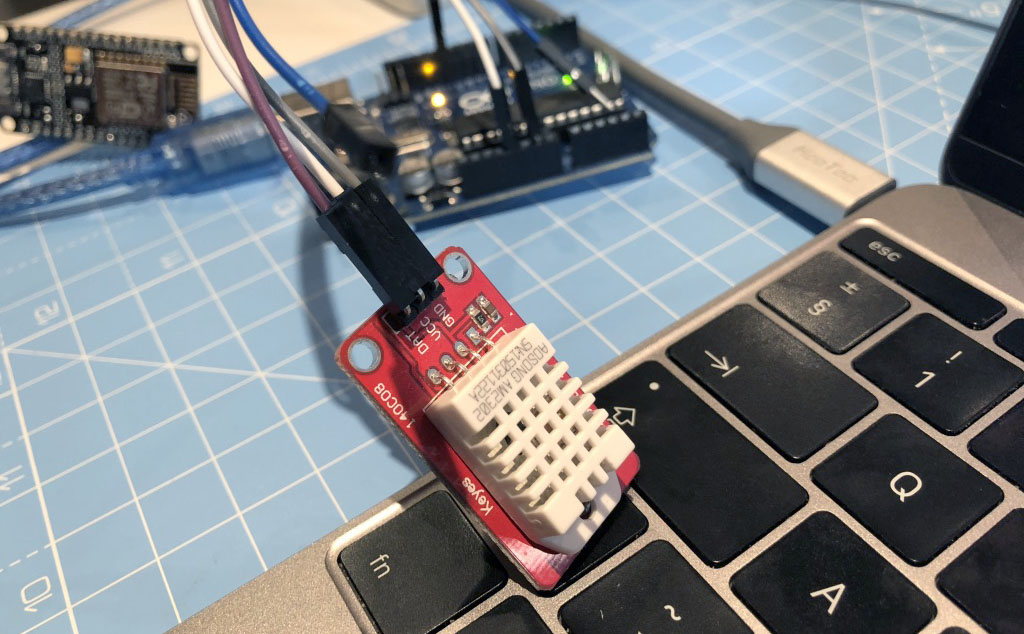
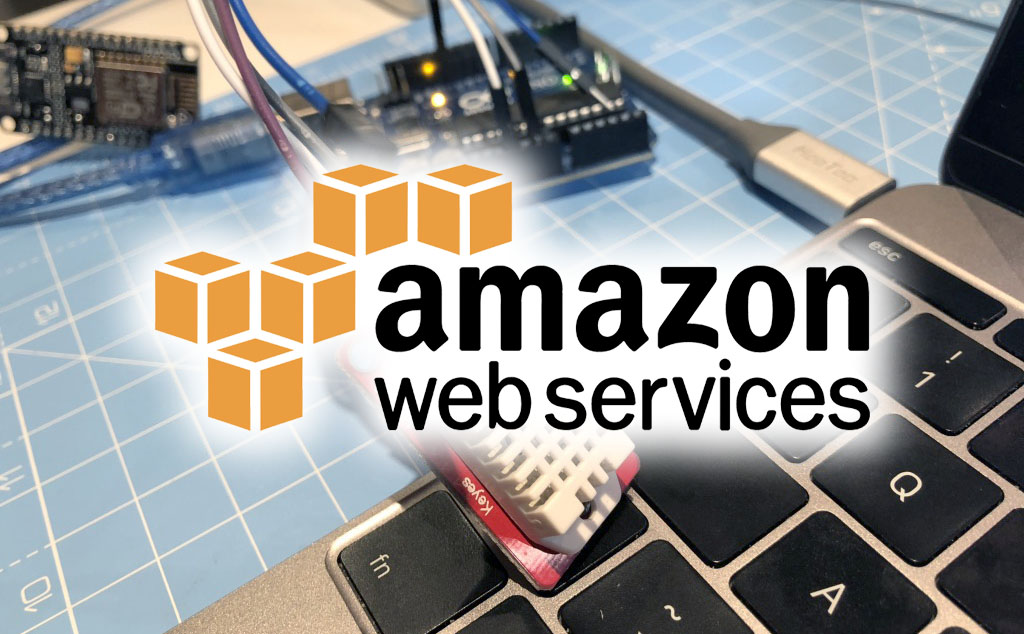
Updating content

diff --git a/content/posts/17-04-2018/index.md b/content/posts/17-04-2018/index.md
@@ -1,6 +1,6 @@
 ---
 title: "Arduino Data Logger 2, save to AWS DynamoDB with Node.js and JavaScript"
-cover: "http://www.webondevices.com/posts/2018/temperature-logging.jpg"
+cover: "http://localhost:8000/posts/2018/dht22-data-logging.jpg"
 category: "moar"
 date: "17/04/2018"
 slug: "arduino-data-logger-dynamosb-aws-nodejs-javascript"
@@ -11,7 +11,7 @@ tags:
 
 This is the second post in a series on logging sensor data from an Arduino with the help of Node.js and JavaScript.
 
-In [part one of the series](/arduino-data-logger-into-file-nodejs-javascript), we have uploaded a piece of code onto the Arduino responsible for performing the sensor measurements and passing that data through as JSON via the USB port. We then read the incoming serial messages in Node.js with JavaScript and logged the data in a CSV file.
+In [part one of the series](/arduino-data-logger-into-file-nodejs-javascript), we have uploaded a piece of code onto the Arduino responsible for performing the sensor measurements and passing that data through as JSON via the USB port. We then read the incoming serial messages in Node.js with JavaScript and logged the data into a CSV file.
 
 If you wish to pick up the project from where we left it off last time, download the source from Github:
 [https://github.com/webondevices/example-projects/tree/master/temp-log-csv](https://github.com/webondevices/example-projects/tree/master/temp-log-csv)
@@ -20,7 +20,7 @@ In this second part, we will connect to **Amazon Web Services** and save our dat
 
 ### Getting started with AWS
 
-**Amazon Web Services** is a collection of cloud services that lets you create and manage databases (**DynamoDB**), run cloud functions (**Lamdba**), build APIs (**API Gateway**), control IoT devices (**AWS IoT Core**), store files (**S**3), write Amazon Alexa skills (**Alexa Skills Kit**), access Machine Learning driven services like natural language processing, image and voice recognition or speech synthesis, and dozens of other useful services. Most importantly all of these have a JavaScript SDK so it's very easy to get started, even as a front-end developer.
+**Amazon Web Services** is a collection of cloud services that lets you create and manage databases (**DynamoDB**), run cloud functions (**Lamdba**), build APIs (**API Gateway**), control IoT devices (**AWS IoT Core**), store files (**S3**), write Amazon Alexa skills (**Alexa Skills Kit**), access Machine Learning driven services like natural language processing, image and voice recognition or speech synthesis, and dozens of other useful services. Most importantly all of these have a JavaScript SDK so it's very easy to get started, even as a front-end developer.
 
 Please note, that using AWS can have some cost implications but most of the services start from a free tier that you will probably only exceed if you are working at a commercial scale so getting started and playing around is usually free.
 
@@ -28,9 +28,7 @@ To get started, first register an account:
 
 [https://portal.aws.amazon.com/billing/signup](https://portal.aws.amazon.com/billing/signup)
 
-After logging in to your new account you will be redirected to the console homepage:
-
-<console home page>
+After logging in to your new account you will be redirected to the console homepage.
 
 To work with AWS from Node.js, the AWS command line tool is recommended to be installed, especially to make the setup process easy.
 
@@ -45,19 +43,23 @@ If you wish install this on **Linux** or have any other issues, just refer to th
 
 To confirm that the installation was successful, run `aws --version` from the command line which should return the version number of the newly installed cli.
 
-Next step is creating a user in AWS that will receive some API keys. These keys will let us connect to the cloud services from our computer. In your console select IAM from the Services drop down menu or search for it:
+Next step is creating a user in AWS that will receive some API keys. These keys will let us connect to the cloud services from our computer via that dev user. In your console select IAM from the Services drop down menu or search for it:
 
-<console>
+![console home page](http://localhost:8000/posts/2018/aws-find-service.jpg)
 
 **IAM** (AWS Identity and Access Management) is a service that helps you securely control access to AWS resources. You use IAM to control who is authenticated (signed in) and authorised (has permissions) to use resources.
 
-We will create a new user with this tool and give it programmatic access which will generate an access key ID and a secret access key for the AWS API, CLI, SDK, and other development tools. Click create new user:
+We will create a new user with this tool and give it programmatic access which will generate an access key ID and a secret access key for the AWS API, CLI, SDK, and other development tools. Click Add user:
 
-<new user>
+![aws create new user](http://localhost:8000/posts/2018/aws-iam-home.jpg)
 
 Fill out the name and select programmatic access. Next, you are asked to setup the permissions for the new user. On this page select "Attach existing policies directly" and choose "AdministratorAccess".
 
-After creating the user you will have access to the **Access key ID** and the **Secret access key**. Make a note of them.
+Granting administrator rights to an IAM user is not best practice so in production apps you will want to narrow these down but it will do the job for now.
+
+After creating the user you will have access to the **Access key ID** and the **Secret access key**. Make a note of these.
+
+![aws create new user](http://localhost:8000/posts/2018/aws-iam-new-user.jpg)
 
 Let's now open up the command line and connect our newly created admin user to the AWS SDK. Run `aws configure` and copy your keys when prompted.
 
@@ -70,7 +72,7 @@ Default output format [None]: <json or text or tabel>
 
 The default region should be the region you selected in the top right corner of your AWS console:
 
-<image>
+![aws create new user](http://localhost:8000/posts/2018/aws-console-region.jpg)
 
 The region codes can be found on this page:
 [https://docs.aws.amazon.com/AWSEC2/latest/UserGuide/using-regions-availability-zones.html](https://docs.aws.amazon.com/AWSEC2/latest/UserGuide/using-regions-availability-zones.html)
@@ -85,11 +87,13 @@ Let's now create a new table in our database for our data to be logged into. In 
 
 At this point, make sure you have the **correct region selected** for your service as your table will be created in and assigned to that very region and it will not be accessible if another region is selected. Next, you can click on the Create Table button.
 
-<illustration>
+![aws create new user](http://localhost:8000/posts/2018/aws-dynamodb-home.jpg)
 
 Name your table and add a partion key as a primary key. The primary key uniquely identifies each item in the table, so that no two items can have the same key. In our case we wouldn't want to use the temperature or humidity values as two entries in our table can have the same value. Instead, we could use the datetime millisecond value which will always be unique.
 
 In other cases when you find it difficult to choose a unique primary key from your data, you can just simply use a uniquely generated ID.
+
+![aws create new user](http://localhost:8000/posts/2018/aws-create-dynamodb-table.jpg)
 
 Click on create and you are now **ready to submit your readings to the database**!
 
@@ -110,7 +114,7 @@ const doc = require('dynamodb-doc');
 const dynamo = new doc.DynamoDB();
 ```
 
-Note the region setting at the initialisation. If this setting is omitted, the default region setting will be used, the one you specified after the `aws configure `command. Remember that this will need to match the region you created your DynamoDB table in. Use this page to look up region codes: [https://docs.aws.amazon.com/AWSEC2/latest/UserGuide/using-regions-availability-zones.html](https://docs.aws.amazon.com/AWSEC2/latest/UserGuide/using-regions-availability-zones.html).
+Note the region setting at the initialisation. If this setting is omitted, the default region setting will be used, the one you specified after the `aws configure` command. Remember that this will need to match the region you created your DynamoDB table in. Use this page to look up region codes: [https://docs.aws.amazon.com/AWSEC2/latest/UserGuide/using-regions-availability-zones.html](https://docs.aws.amazon.com/AWSEC2/latest/UserGuide/using-regions-availability-zones.html).
 
 We are now ready to use the `dynamo.putItem()` method to submit new data to the table:
 
@@ -203,13 +207,15 @@ Well done on finishing this project! You are now fully set up to work with AWS f
 
 There are two ways to validate or retreive the data saved to DynamoDB. The easiest is navigating to the DynamoDB service from the web console, then selecting "Tables", clicking on the name of your table and selecting the the Items tab.
 
-<data>
+![aws create new user](http://localhost:8000/posts/2018/aws-dynamodb-table.jpg)
 
 All our data is listed here as expected and you can export or filter it depending on your needs.
 
 ### Validating the data by querying DynamoDB
 
-The simplest example to get the data from JavaScript would be to just download all entries. For that we can say we want to scan for entries with a datetime value lower than the current time. This essentially means entries in the past. Please note that scanning and querying are different concepts in DyanmoDB. When you query, you have to include your primary key. In our case this would mean query by the datetime value. Scanning gives you a lot more freedom (but could be slower) so for now this is is what we will user.
+The simplest example to get the data from JavaScript would be to just download all entries. For that we can say we want to scan for entries with a datetime value lower than the current time. This essentially means entries in the past.
+
+Please note that **scanning and querying** are different concepts in DyanmoDB. When you query, you have to include your primary key. In our case this would mean query by the datetime value. Scanning gives you a lot more freedom (but could be slightly slower in bigger databases) so for now this is is what we will use.
 
 Add this into a new file called temp-read-aws.js:
 
@@ -242,7 +248,7 @@ dynamo.scan(params1, function (err, data) {
 });
 ```
 
-This is an interesting syntax and looks quite arbitrary. Let's go through the query parameters line-by-line and try to understand what's going on.
+The parameter object passed into the scan function has quite an interesting syntax and looks quite arbitrary. Let's go through the query parameters line-by-line and try to understand what's going on.
 
 **TableName** is obviously the name of the table we would like to scan in.
 
@@ -292,4 +298,4 @@ const params3 = {
 
 ### Final thoughts
 
-I hope all this was exciting. I know we have covered a lot, but remember that now you are completely set up with Amazon Web Service and ready to use all the other services they offer. This is definitely something we will discover in the future, including setting up automatic notifications, triggering cloud functins and discovering AWS IoT Core to control electronic devices remotely.
+I hope all this was exciting. I know we have covered a lot, but remember that now you are completely set up with Amazon Web Service and ready to use all the other services they offer. This is definitely something we will discover in the future, including setting up automatic notifications, triggering cloud functions and discovering AWS IoT Core to control electronic devices remotely.
